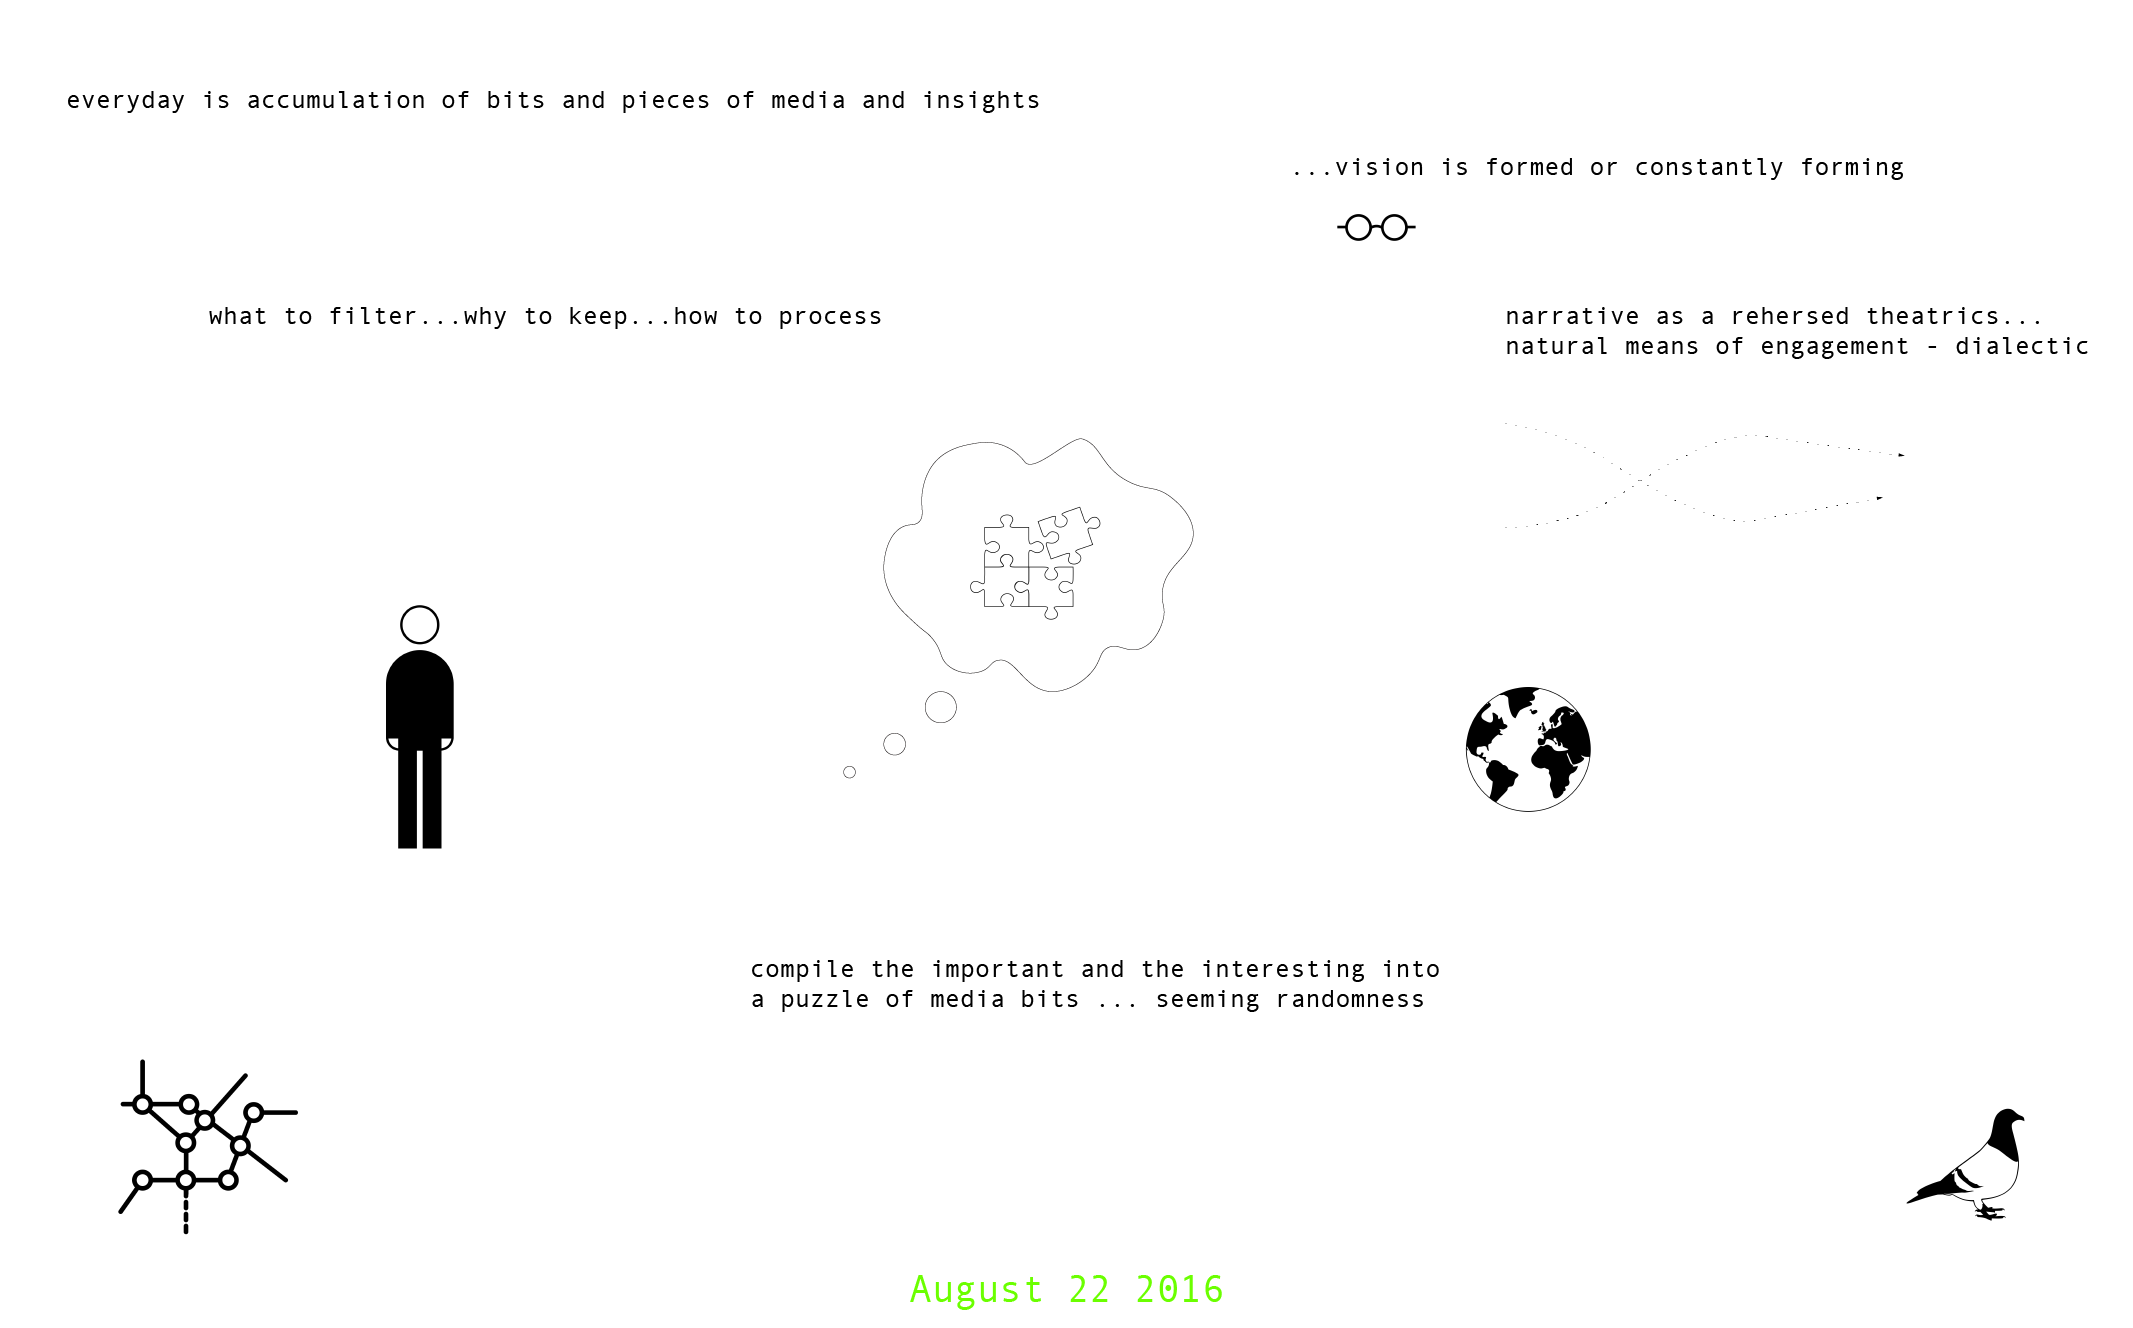
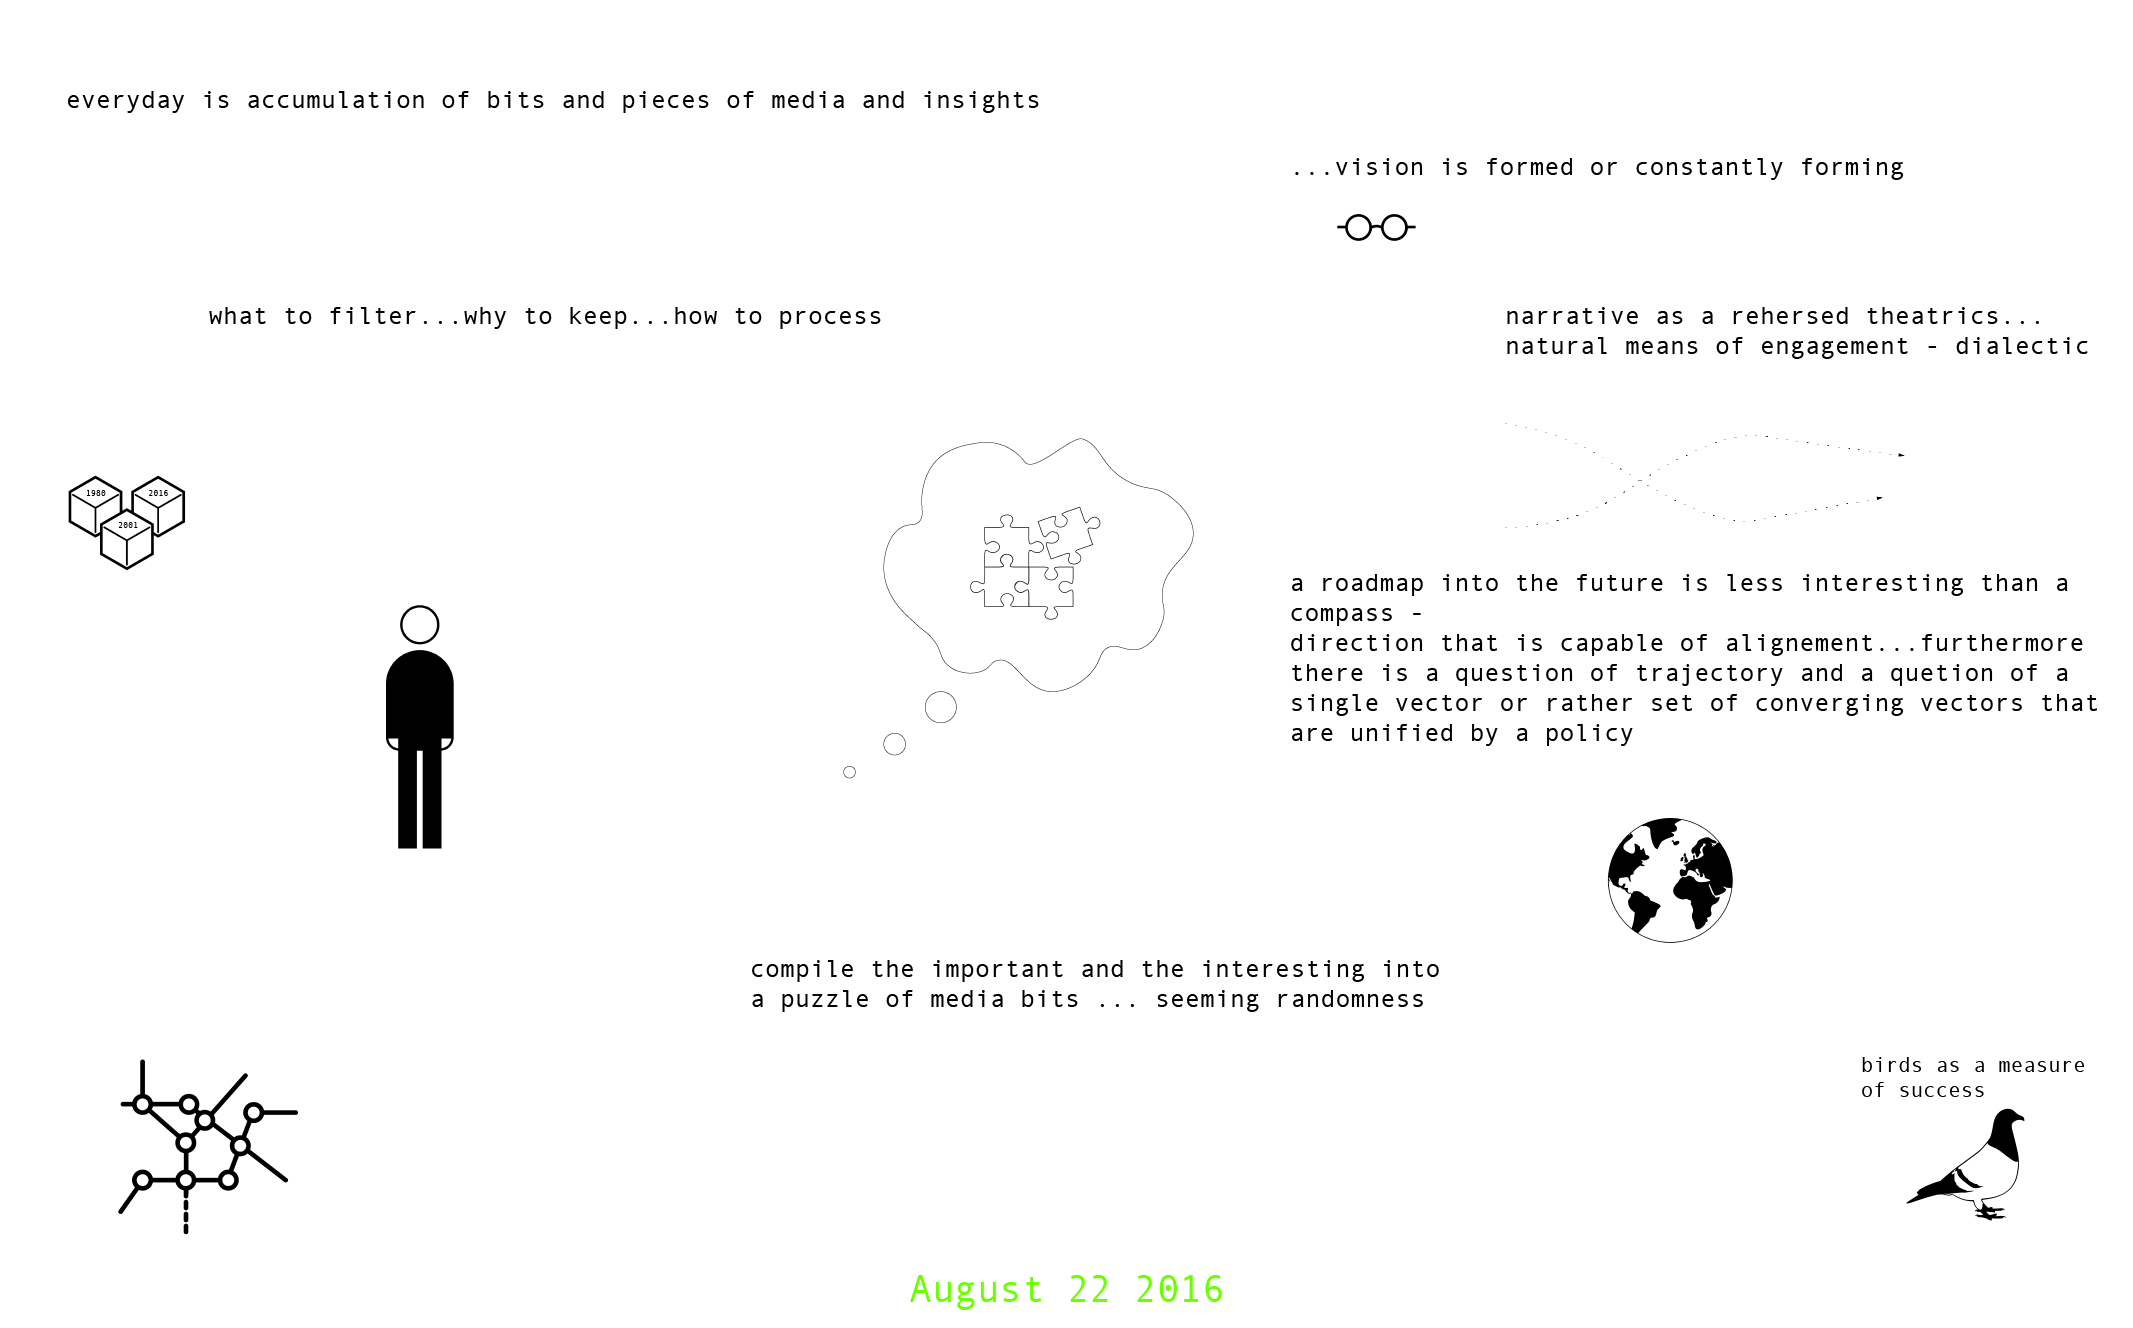
new navigation

diff --git a/public/story.html b/public/story.html
@@ -62,10 +62,17 @@
                     <li>
                         <a class="page-scroll" style="background-color:white;" href="/experience">EXPERIENCE</a>
                     </li>
+                    <li>
+                        <a class="page-scroll"style="background-color:white;" href="/daily" >Notes</a>
+                    </li>
 
                     <li>
                         <a class="page-scroll" style="background-color:white;" href="/">HOME</a>
                     </li>
+
+
+
+
                     <!-- <li>
                         <a class="page-scroll" href="/#esa">ESA</a>
                     </li>

diff --git a/public/index.html b/public/index.html
@@ -274,9 +274,9 @@
                         <a class="page-scroll"  href="/experience">Experience</a>
                     </li> -->
 
-                    <li>
+                    <!-- <li>
                         <a class="page-scroll" href="/daily" >Notes</a>
-                    </li>
+                    </li> -->
 
                     <!-- <li>
                         <a class="page-scroll"  href="#hi">hi</a>

diff --git a/public/daily.html b/public/daily.html
@@ -106,7 +106,9 @@
               <img src="img/daily/Daily_3.png" id="bg" width =100% alt="" />
     </section>
 
-
+    <section id="4" >
+              <img src="img/daily/Daily_4.png" id="bg" width =100% alt="" />
+    </section>
 
 
     <!-- Footer -->
